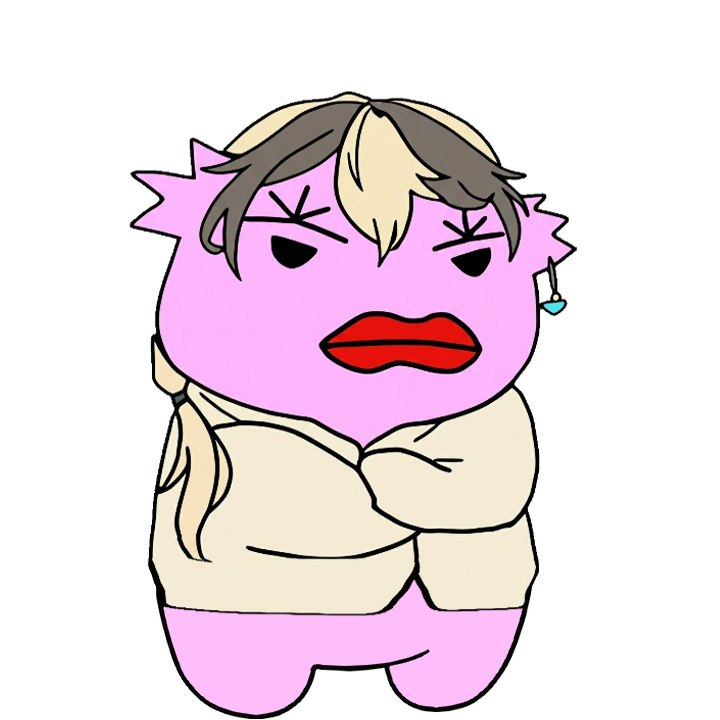
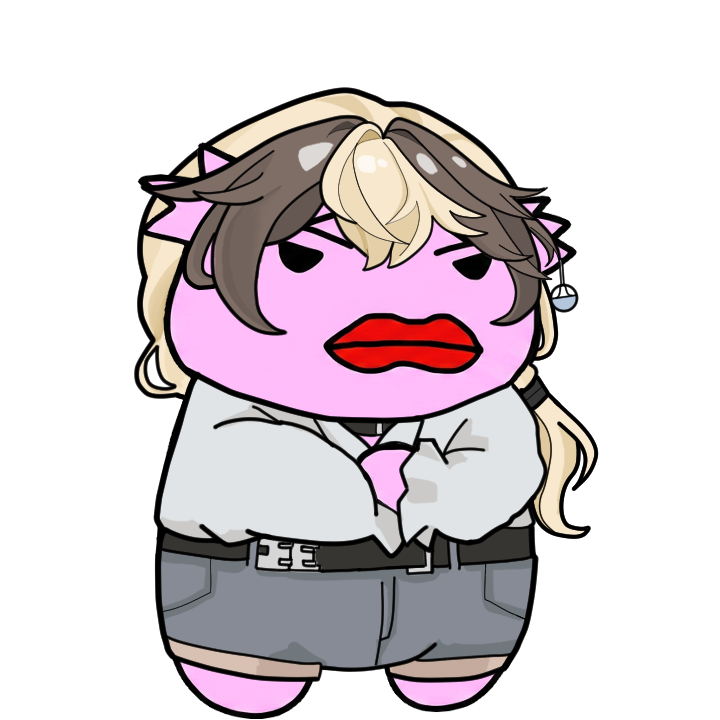
add wuwu

diff --git a/PNG/README.md b/PNG/README.md
@@ -74,7 +74,7 @@
 | <img src="twitch_emotes/cocor0Eason.png?v=68c666b3" width="160"><br>cocor0Eason | <img src="twitch_emotes/esoAngry.png?v=418e82f0" width="160"><br>esoAngry | <img src="twitch_emotes/hakuzenAngry.png?v=6e080320" width="160"><br>hakuzenAngry | <img src="twitch_emotes/hitomi26Eason.png?v=71ba9abc" width="160"><br>hitomi26Eason |
 | <img src="twitch_emotes/kuma7oKisskiss.png?v=c9d7f382" width="160"><br>kuma7oKisskiss | <img src="twitch_emotes/lingmuAngry3.png?v=9d478497" width="160"><br>lingmuAngry3 | <img src="twitch_emotes/mitsuki3iKISShair.png?v=e8ae697d" width="160"><br>mitsuki3iKISShair | <img src="twitch_emotes/miwawaaKisskiss.png?v=a2c169c4" width="160"><br>miwawaaKisskiss |
 | <img src="twitch_emotes/musha0Fa.png?v=304ab47c" width="160"><br>musha0Fa | <img src="twitch_emotes/p1lepeKISS.png?v=bd3683ea" width="160"><br>p1lepeKISS | <img src="twitch_emotes/paroEason.png?v=fbe163b4" width="160"><br>paroEason | <img src="twitch_emotes/ranran9Kiss.png?v=76093cf1" width="160"><br>ranran9Kiss |
-| <img src="twitch_emotes/suaiyaKiss.png?v=2af9e13b" width="160"><br>suaiyaKiss | <img src="twitch_emotes/taotie1Chu.png?v=37ad159d" width="160"><br>taotie1Chu | <img src="twitch_emotes/vivi0z1Esoangry.png?v=9a9c858a" width="160"><br>vivi0z1Esoangry | <img src="twitch_emotes/wuwutt02Eason.png?v=ed07fb66" width="160"><br>wuwutt02Eason |
+| <img src="twitch_emotes/suaiyaKiss.png?v=2af9e13b" width="160"><br>suaiyaKiss | <img src="twitch_emotes/taotie1Chu.png?v=37ad159d" width="160"><br>taotie1Chu | <img src="twitch_emotes/vivi0z1Esoangry.png?v=9a9c858a" width="160"><br>vivi0z1Esoangry | <img src="twitch_emotes/wuwutt02Eason.png?v=4f1c23b1" width="160"><br>wuwutt02Eason |
 | <img src="twitch_emotes/x4lianYys.png?v=c2ee538b" width="160"><br>x4lianYys | <img src="twitch_emotes/yukito30Chu.png?v=6a6362c0" width="160"><br>yukito30Chu | <img src="twitch_emotes/zeskrKisszeskr.png?v=7f1ff1df" width="160"><br>zeskrKisszeskr |  |
 
 ### twitch_non_emoted (15)

diff --git a/720_body/README.md b/720_body/README.md
@@ -31,6 +31,6 @@ fix the missing part using the reference image (add outfit , hair to pink creatu
 | <img src="vt/lingmu.png?v=a9de04e4" width="160"><br>lingmu | <img src="vt/mitsuki.png?v=884d94b5" width="160"><br>mitsuki | <img src="vt/miwawaa.png?v=311e8a1c" width="160"><br>miwawaa | <img src="vt/moko.png?v=19ac36eb" width="160"><br>moko |
 | <img src="vt/musha.png?v=79a781fb" width="160"><br>musha | <img src="vt/nein.png?v=fb36c30b" width="160"><br>nein | <img src="vt/paroniie.png?v=3a0c6604" width="160"><br>paroniie | <img src="vt/pele.png?v=1c079554" width="160"><br>pele |
 | <img src="vt/ranran.png?v=13daccfb" width="160"><br>ranran | <img src="vt/suaiya.png?v=82813b0a" width="160"><br>suaiya | <img src="vt/taotie.png?v=c8ecccb7" width="160"><br>taotie | <img src="vt/vivi.png?v=aa18c162" width="160"><br>vivi |
-| <img src="vt/wuwutt.png?v=27163eac" width="160"><br>wuwutt | <img src="vt/yukito.png?v=db3f0a92" width="160"><br>yukito | <img src="vt/zeskr.png?v=0bfeda16" width="160"><br>zeskr |  |
+| <img src="vt/wuwutt.png?v=01870126" width="160"><br>wuwutt | <img src="vt/yukito.png?v=db3f0a92" width="160"><br>yukito | <img src="vt/zeskr.png?v=0bfeda16" width="160"><br>zeskr |  |
 
 <!-- gallery:end -->
